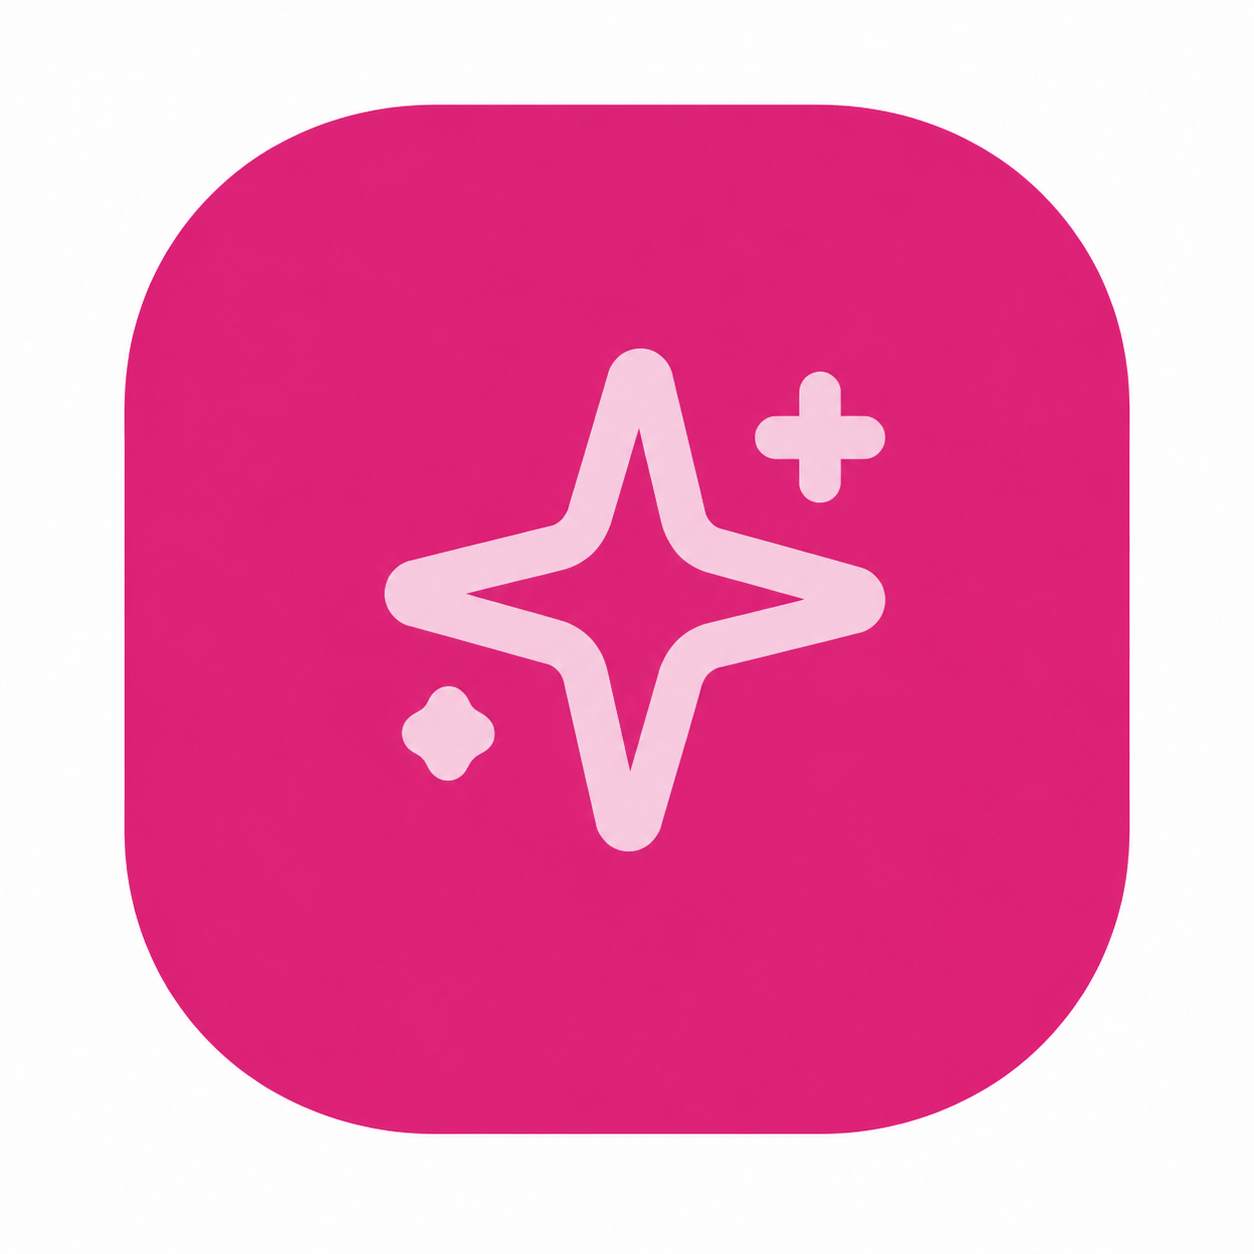
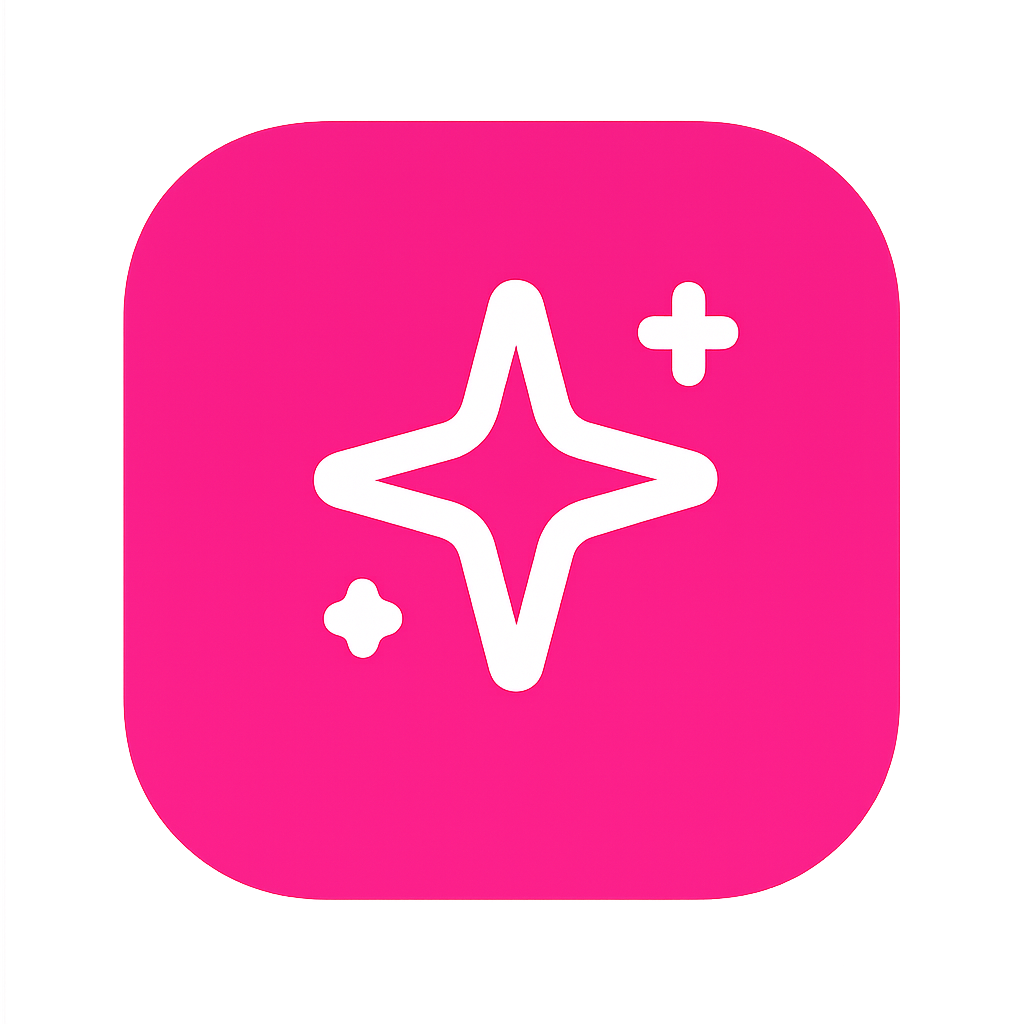
style: atualizar ícone do aplicativo para a nova imagem icon2

diff --git a/vite.config.js b/vite.config.js
@@ -8,7 +8,7 @@ export default defineConfig({
     react(),
     VitePWA({
       registerType: 'autoUpdate',
-      includeAssets: ['favicon.ico', 'icon.svg', 'apple-touch-icon.png'],
+      includeAssets: ['favicon.ico', 'icon.png', 'apple-touch-icon.png'],
       workbox: {
         maximumFileSizeToCacheInBytes: 5 * 1024 * 1024, // Aumenta limite para 5MB
         globPatterns: ['**/*.{js,css,html,ico,png,svg}'],
@@ -22,19 +22,19 @@ export default defineConfig({
         display: 'standalone',
         icons: [
           {
-            src: 'icon.svg',
+            src: 'icon.png',
             sizes: '192x192',
-            type: 'image/svg+xml'
+            type: 'image/png'
           },
           {
-            src: 'icon.svg',
+            src: 'icon.png',
             sizes: '512x512',
-            type: 'image/svg+xml'
+            type: 'image/png'
           },
           {
-            src: 'icon.svg',
+            src: 'icon.png',
             sizes: '512x512',
-            type: 'image/svg+xml',
+            type: 'image/png',
             purpose: 'any maskable'
           }
         ]
